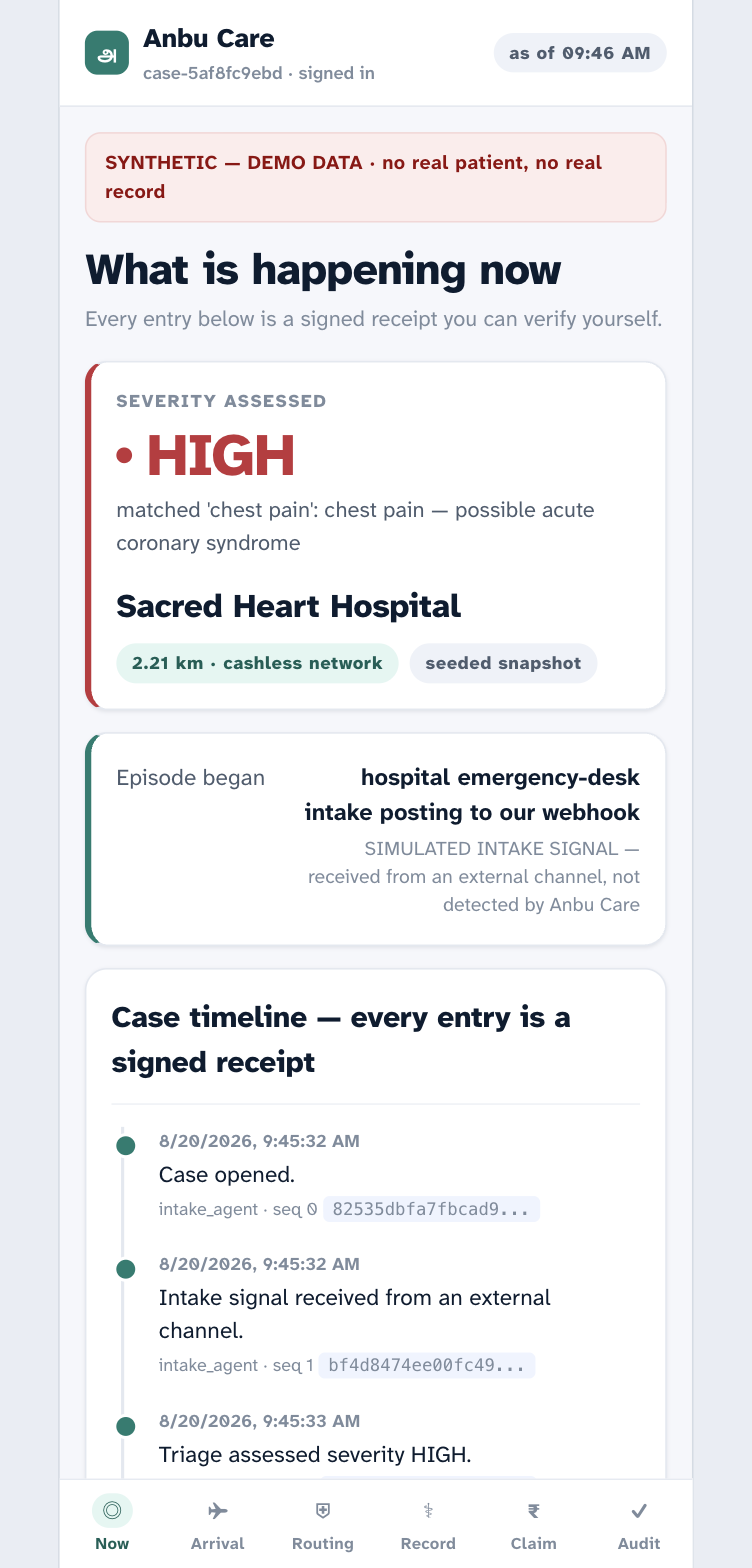
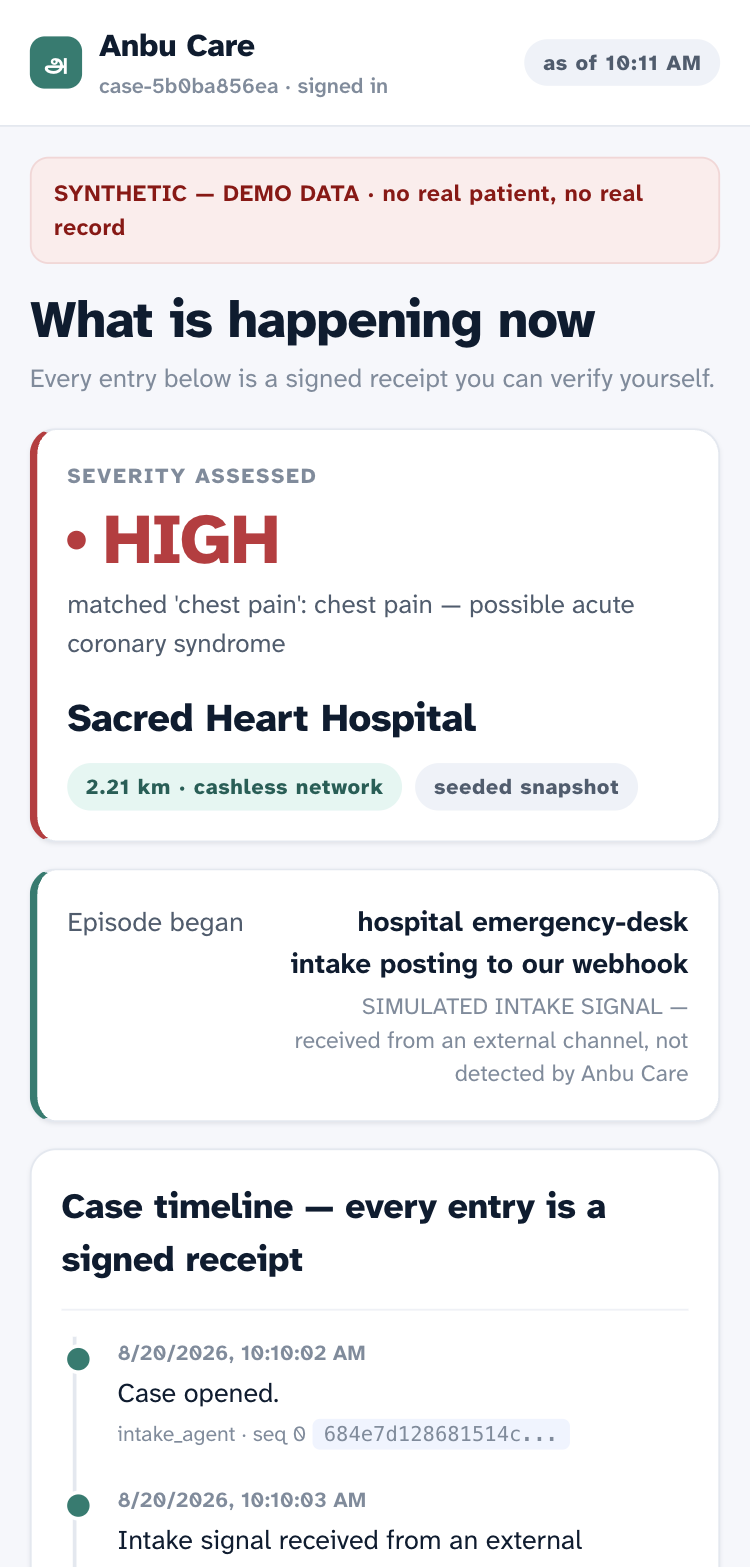
Render the lab delta as one line per analyte
Capturing the fixed screens showed the materiality band had solved the
classification and not the presentation: the delta was still a single run-on
paragraph, so the one reading that actually moved sat at the bottom of a dense
amber block. Splitting on a delimiter the backend already emits gives each
analyte its own line, the stable ones a quiet teal tick, and HbA1c its own
highlighted block. That is what the band was for.

Also shortened the repeated reference-range parenthetical, which appears once
per stable analyte.

Screenshots refreshed against the canonical case. Note that delta text is
computed at ingest and stored, so the shorter parenthetical applies to documents
ingested from now on; the canonical case keeps the longer wording rather than
churning the case id that the take, the screenshots and the curls all share.

182 tests green. Display only.

diff --git a/anbu_care/webui/index.html b/anbu_care/webui/index.html
@@ -149,6 +149,15 @@ main{max-width:760px;margin:0 auto;padding:var(--pad)}
 .delta.base{color:var(--teal-ink)}
 .delta.new{color:var(--amber)}
 .delta .ic{flex:none;font-weight:800}
+/* One line per analyte. A single run-on paragraph buried the one reading that
+   moved, which is the thing the materiality band exists to surface. */
+.deltas{margin-top:12px;padding-top:12px;border-top:1px solid var(--line-soft)}
+.dline{display:flex;gap:8px;font-size:12.5px;line-height:1.5;padding:4px 0;
+       color:var(--ink-mute)}
+.dline .ic{flex:none;font-weight:800}
+.dline.base{color:var(--teal-ink)}
+.dline.new{color:var(--amber);font-weight:700;font-size:13.5px;
+           background:var(--amber-bg);margin:4px -8px;padding:8px;border-radius:var(--r-sm)}
 
 /* ---- code / cta ------------------------------------------------------- */
 pre{background:#10202e;border:0;border-radius:var(--r);color:#d6e6f2;
@@ -402,8 +411,14 @@ function vRecord(){
             <div class="v num">${esc(o.value)} <span class="u">${esc(o.unit||"")}</span>
               ${o.flag?`<span class="pill ${["high","low","abnormal"].includes((o.flag||"").toLowerCase())?"p-red":"p-teal"}">${esc(o.flag)}</span>`:""}
             </div></div>`).join("")}
-      ${d.delta_vs_baseline?`<div class="delta ${base?"base":"new"}">
-        <span class="ic">${base?"✓":"⚠"}</span><span>${esc(d.delta_vs_baseline)}</span></div>`:""}
+      ${d.delta_vs_baseline?`<div class="deltas">
+        ${d.delta_vs_baseline.split("; ").map(n=>{
+          const material=/new and abnormal/.test(n);
+          const stable=/consistent with baseline|within normal variation/.test(n);
+          return `<div class="dline ${material?"new":stable?"base":""}">
+            <span class="ic">${material?"⚠":"✓"}</span><span>${esc(n)}</span></div>`;
+        }).join("")}
+      </div>`:""}
     </div>`;}).join("")}`;
 }
 

diff --git a/anbu_care/tools/onboarding_tools.py b/anbu_care/tools/onboarding_tools.py
@@ -313,7 +313,7 @@ def _delta_vs_baseline(parent_id: str, doc: ParsedDocument) -> str:
             notes.append(
                 f"{obs.name}={obs.value}: changed from {seen[-1]}, "
                 f"inside the {MATERIAL_CHANGE_FRACTION:.0%} band — within normal variation"
-                + (" (still flagged abnormal against the reference range)" if abnormal else "")
+                + (" (still outside reference range)" if abnormal else "")
             )
         else:
             notes.append(

diff --git a/tests/test_display_consistency.py b/tests/test_display_consistency.py
@@ -149,7 +149,7 @@ def test_small_move_reads_as_variation_not_as_new_and_abnormal(parent_id):
     assert "within normal variation" in delta
     assert "new and abnormal" not in delta
     # The reference-range flag is untouched — it is still abnormal, just stable.
-    assert "still flagged abnormal" in delta
+    assert "still outside reference range" in delta
 
 
 def test_hba1c_crossing_still_reads_new_and_abnormal(parent_id):
